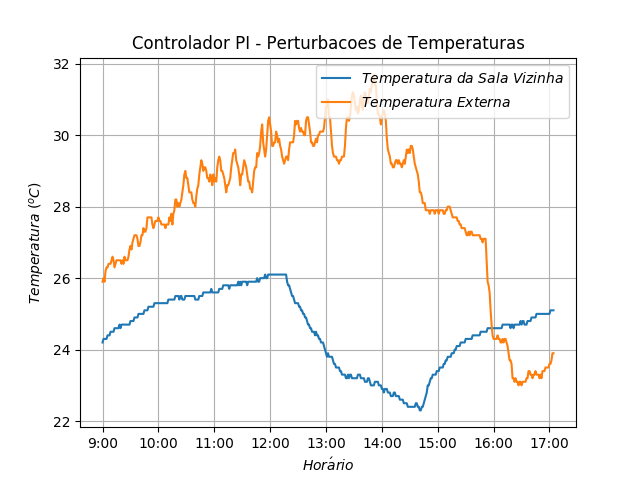
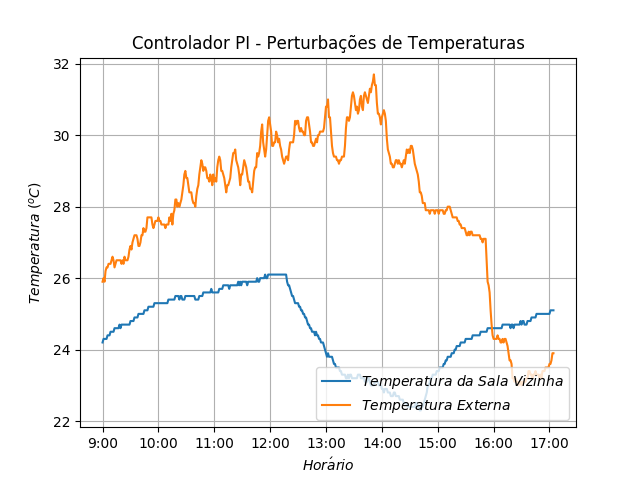
Teste Antecipativo Oficial

Changed region(s): [[0.5, 0.75, 0.9062, 0.875], [0.5, 0.125, 0.9062, 0.25], [0.8438, 0.2188, 0.875, 0.25]]

diff --git a/Integracao/plotlib.py b/Integracao/plotlib.py
@@ -17,7 +17,7 @@ def plotModel (database, name, controllerType):
     name = name.replace(":","-")
     
     TEMP = 23
-    TEMP_EMPTY_ROOM = 25
+    TEMP_EMPTY_ROOM = 30
     
     if(name == '2018-11-23_09-51-38_05'):
         energyTime = ['09-40','10-20','10-52','11-14','11-43','13-22','13-46','14-16','14-36']
@@ -191,7 +191,7 @@ def plotModel (database, name, controllerType):
         else:
             compressorSignal.append(line[5])
             
-        if(cont == 0 or cont%170 == 0):
+        if(cont == 0 or cont% 56 == 0):
             dateTimeClean.append(str(int(hour))+":00")
             
             if(cont == 0):
@@ -232,14 +232,16 @@ def plotModel (database, name, controllerType):
             tempR = tempMeetingRoom[i]
             
             if(tempE > 23):
-                integralE = integralE + (tempE - 23)
+                integralE = integralE + (tempE - 23)  
+                
             if(tempL > 23):
                 integralL = integralL + (tempL - 23)
-                
-            if(e > 0):
-                integralError = integralError + e
-            else:
-                integralError = integralError - e
+            
+            if(reference[i] == 23):
+                if(e > 0):
+                    integralError = integralError + e
+                else:
+                    integralError = integralError - e
                 
             if(tempR < 17):
                 pmv = -1.77
@@ -272,6 +274,9 @@ def plotModel (database, name, controllerType):
             else:
                 pmv = 1.8
                 
+            if(reference[i] != 23):
+                pmv = 0
+                
             PMV.append(pmv)
             
             ppd = 100 - 95 * np.exp(-0.03353*(pow(pmv,4))-0.2179*(pow(pmv,2)))
@@ -301,7 +306,7 @@ def plotModel (database, name, controllerType):
     plt.title(title + " - Temperatura")
     plt.ylabel(r"$Temperatura\ (^o C)$")
     plt.xlabel(r"$Hor\'ario$")
-    plt.xticks(range(0, cont, 170), dateTimeClean)
+    plt.xticks(range(0, cont,  56), dateTimeClean)
     plt.grid(True)
     plt.savefig("Log/"+save+"_"+name+"_Temp.png")
     plt.show()
@@ -309,11 +314,11 @@ def plotModel (database, name, controllerType):
     plt.figure()
     plt.plot(dateTime[1:], tempLara[1:])
     plt.plot(dateTime[1:], tempExternal[1:])
-    plt.legend((r"$Temperatura\ da\ Sala\ Vizinha$", r"$Temperatura\ Externa$"), loc='upper left')
+    plt.legend((r"$Temperatura\ da\ Sala\ Vizinha$", r"$Temperatura\ Externa$"), loc='lower right')
     plt.title(title + " - Perturbações de Temperaturas".decode("utf-8"))
     plt.ylabel(r"$Temperatura\ (^o C)$")
     plt.xlabel(r"$Hor\'ario$")
-    plt.xticks(range(0, cont, 170), dateTimeClean)
+    plt.xticks(range(0, cont,  56), dateTimeClean)
     plt.grid(True)
     plt.savefig("Log/"+save+"_"+name+"_TempExt.png")
     plt.show()
@@ -325,7 +330,7 @@ def plotModel (database, name, controllerType):
         plt.title(title + " - PMV")
         plt.ylabel(r"$PMV$")
         plt.xlabel(r"$Hor\'ario$")
-        plt.xticks(range(0, cont, 170), dateTimeClean)
+        plt.xticks(range(0, cont,  56), dateTimeClean)
         plt.grid(True)
         plt.savefig("Log/"+save+"_"+name+"_PMV.png")
         plt.show()
@@ -336,7 +341,7 @@ def plotModel (database, name, controllerType):
         plt.title(title + " - PPD")
         plt.ylabel(r"$PPD$")
         plt.xlabel(r"$Hor\'ario$")
-        plt.xticks(range(0, cont, 170), dateTimeClean)
+        plt.xticks(range(0, cont,  56), dateTimeClean)
         plt.grid(True)
         plt.savefig("Log/"+save+"_"+name+"_PPD.png")
         plt.show()
@@ -348,7 +353,7 @@ def plotModel (database, name, controllerType):
         plt.legend((r"$Sinal\ de\ Controle$", r"$Ciclo\ de\ Trabalho$"), loc='lower left')
         plt.ylabel(r"$Sinal$")
         plt.xlabel(r"$Hor\'ario$")
-        plt.xticks(range(0, cont, 170), dateTimeClean)
+        plt.xticks(range(0, cont,  56), dateTimeClean)
         plt.grid(True)
         plt.savefig("Log/"+save+"_"+name+"_Signal.png")
         plt.show()
@@ -359,7 +364,7 @@ def plotModel (database, name, controllerType):
             plt.title(title + " - Consumo")
             plt.ylabel(r"$Consumo (KWh)$")
             plt.xlabel(r"$Hor\'ario$")
-            plt.xticks(range(0, cont, 170), dateTimeClean)
+            plt.xticks(range(0, cont,  56), dateTimeClean)
             plt.grid(True)
             plt.savefig("Log/"+save+"_"+name+"_Energy.png")
             plt.show()
@@ -369,7 +374,7 @@ def plotModel (database, name, controllerType):
         plt.title(title + " - Contagem de Pessoas")
         plt.ylabel(r"$N\'umero\ de\ Pessoas$")
         plt.xlabel(r"$Hor\'ario$")
-        plt.xticks(range(0, cont, 170), dateTimeClean)
+        plt.xticks(range(0, cont,  56), dateTimeClean)
         plt.grid(True)
         plt.savefig("Log/"+save+"_"+name+"_People.png")
         plt.show()
@@ -379,7 +384,7 @@ def plotModel (database, name, controllerType):
         plt.title(title + " - Sinal da Porta")
         plt.ylabel(r"$Sinal$")
         plt.xlabel(r"$Hor\'ario$")
-        plt.xticks(range(0, cont, 170), dateTimeClean)
+        plt.xticks(range(0, cont,  56), dateTimeClean)
         plt.grid(True)
         plt.savefig("Log/"+save+"_"+name+"_Door.png")
         plt.show()
@@ -390,7 +395,7 @@ def plotModel (database, name, controllerType):
         plt.title(title + " - Acionamento")
         plt.ylabel(r"$Sinal$")
         plt.xlabel(r"$Hor\'ario$")
-        plt.xticks(range(0, cont, 170), dateTimeClean)
+        plt.xticks(range(0, cont,  56), dateTimeClean)
         plt.grid(True)
         plt.savefig("Log/"+save+"_"+name+"_Signal.png")
         plt.show()

diff --git a/Integracao/plots.py b/Integracao/plots.py
@@ -9,14 +9,14 @@ from sqlitelib import *
 # 1 -> Liga-Desliga
 # 2 -> PI
 # 3 -> Antecipativo
-controllerType = 0
+controllerType = 2
 
 # Identificacao
 # name = '2018-10-12 15:44:53'
 # name = '2018-10-13 13:10:18'
 # name = '2018-10-14 10:18:28'
 # name = '2018-10-23 22:43:46'
-name = '2018-10-20_16-44-16' # OFICIAL
+# name = '2018-10-20_16-44-16' # OFICIAL
 
 
 # Liga-Desliga
@@ -36,8 +36,8 @@ name = '2018-10-20_16-44-16' # OFICIAL
 # name = '2018-11-02 18:40:37' # OFICIAL SEM PERTURBACAO
 # name = '2018-11-05 22:47:36'
 # name = '2018-11-09_09-55-06' # OFICIAL COM PERTURBACAO
-# name = '2018-11-22_09-30-11_03'
-# name = '2018-11-23_09-51-38' #8 HORAS
+#name = '2018-11-22_09-30-11'
+name = '2018-11-23_09-51-38' #8 HORAS
 
 #Antecipativo
 # name = '2018-11-10_12-11-55'
@@ -49,7 +49,7 @@ name = '2018-10-20_16-44-16' # OFICIAL
 # name = '2018-11-16_16-40-57' # oficial
 # name = '2018-11-17_17-12-29_01'
 # name = '2018-11-19_09-42-35'
-# name = '2018-11-24_09-55-53_07' # 8 HORAS
+# name = '2018-11-24_09-55-53' # 8 HORAS
 
 database = InicializeDatabase(name)
 plotModel(database, name, controllerType)
